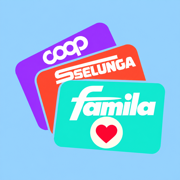
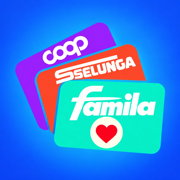
Backup: un solo file (tolto il titolo dalla condivisione) e nuova icona blu

diff --git a/app.js b/app.js
@@ -1,6 +1,6 @@
 // Le mie carte — carte fedeltà dei negozi con codice a barre e punti.
 // Le carte sono salvate sul telefono (memoria del browser): niente account, niente server.
-export const VERSIONE = '9';
+export const VERSIONE = '10';
 
 // ---------- I negozi (colori e scritte, simili a quelli veri) ----------
 const SERIF = "'Didot','Bodoni 72','Playfair Display',Georgia,serif";
@@ -387,7 +387,7 @@ $('mBackup').onclick = async () => {
   try {
     if (navigator.canShare?.({ files: [file] })) {
       // Su iPhone si apre il foglio di condivisione: «Salva su File» o AirDrop, Mail, ecc.
-      await navigator.share({ files: [file], title: 'Backup carte' });
+      await navigator.share({ files: [file] });
     } else {
       const a = document.createElement('a');
       a.href = URL.createObjectURL(file); a.download = nome;

diff --git a/index.html b/index.html
@@ -8,11 +8,11 @@
 <meta name="mobile-web-app-capable" content="yes">
 <meta name="apple-mobile-web-app-status-bar-style" content="black">
 <meta name="apple-mobile-web-app-title" content="Carte">
-<link rel="apple-touch-icon" href="icona-180.png?v=9">
-<link rel="icon" href="icona-192.png?v=9">
+<link rel="apple-touch-icon" href="icona-180.png?v=10">
+<link rel="icon" href="icona-192.png?v=10">
 <link rel="manifest" href="manifest.json">
 <title>Carte</title>
-<link rel="stylesheet" href="stile.css?v=9">
+<link rel="stylesheet" href="stile.css?v=10">
 </head>
 <body>
 
@@ -83,6 +83,6 @@
 <input type="file" id="fileBackup" accept=".json,application/json" hidden>
 <div class="avviso" id="avviso"></div>
 
-<script type="module" src="app.js?v=9"></script>
+<script type="module" src="app.js?v=10"></script>
 </body>
 </html>
